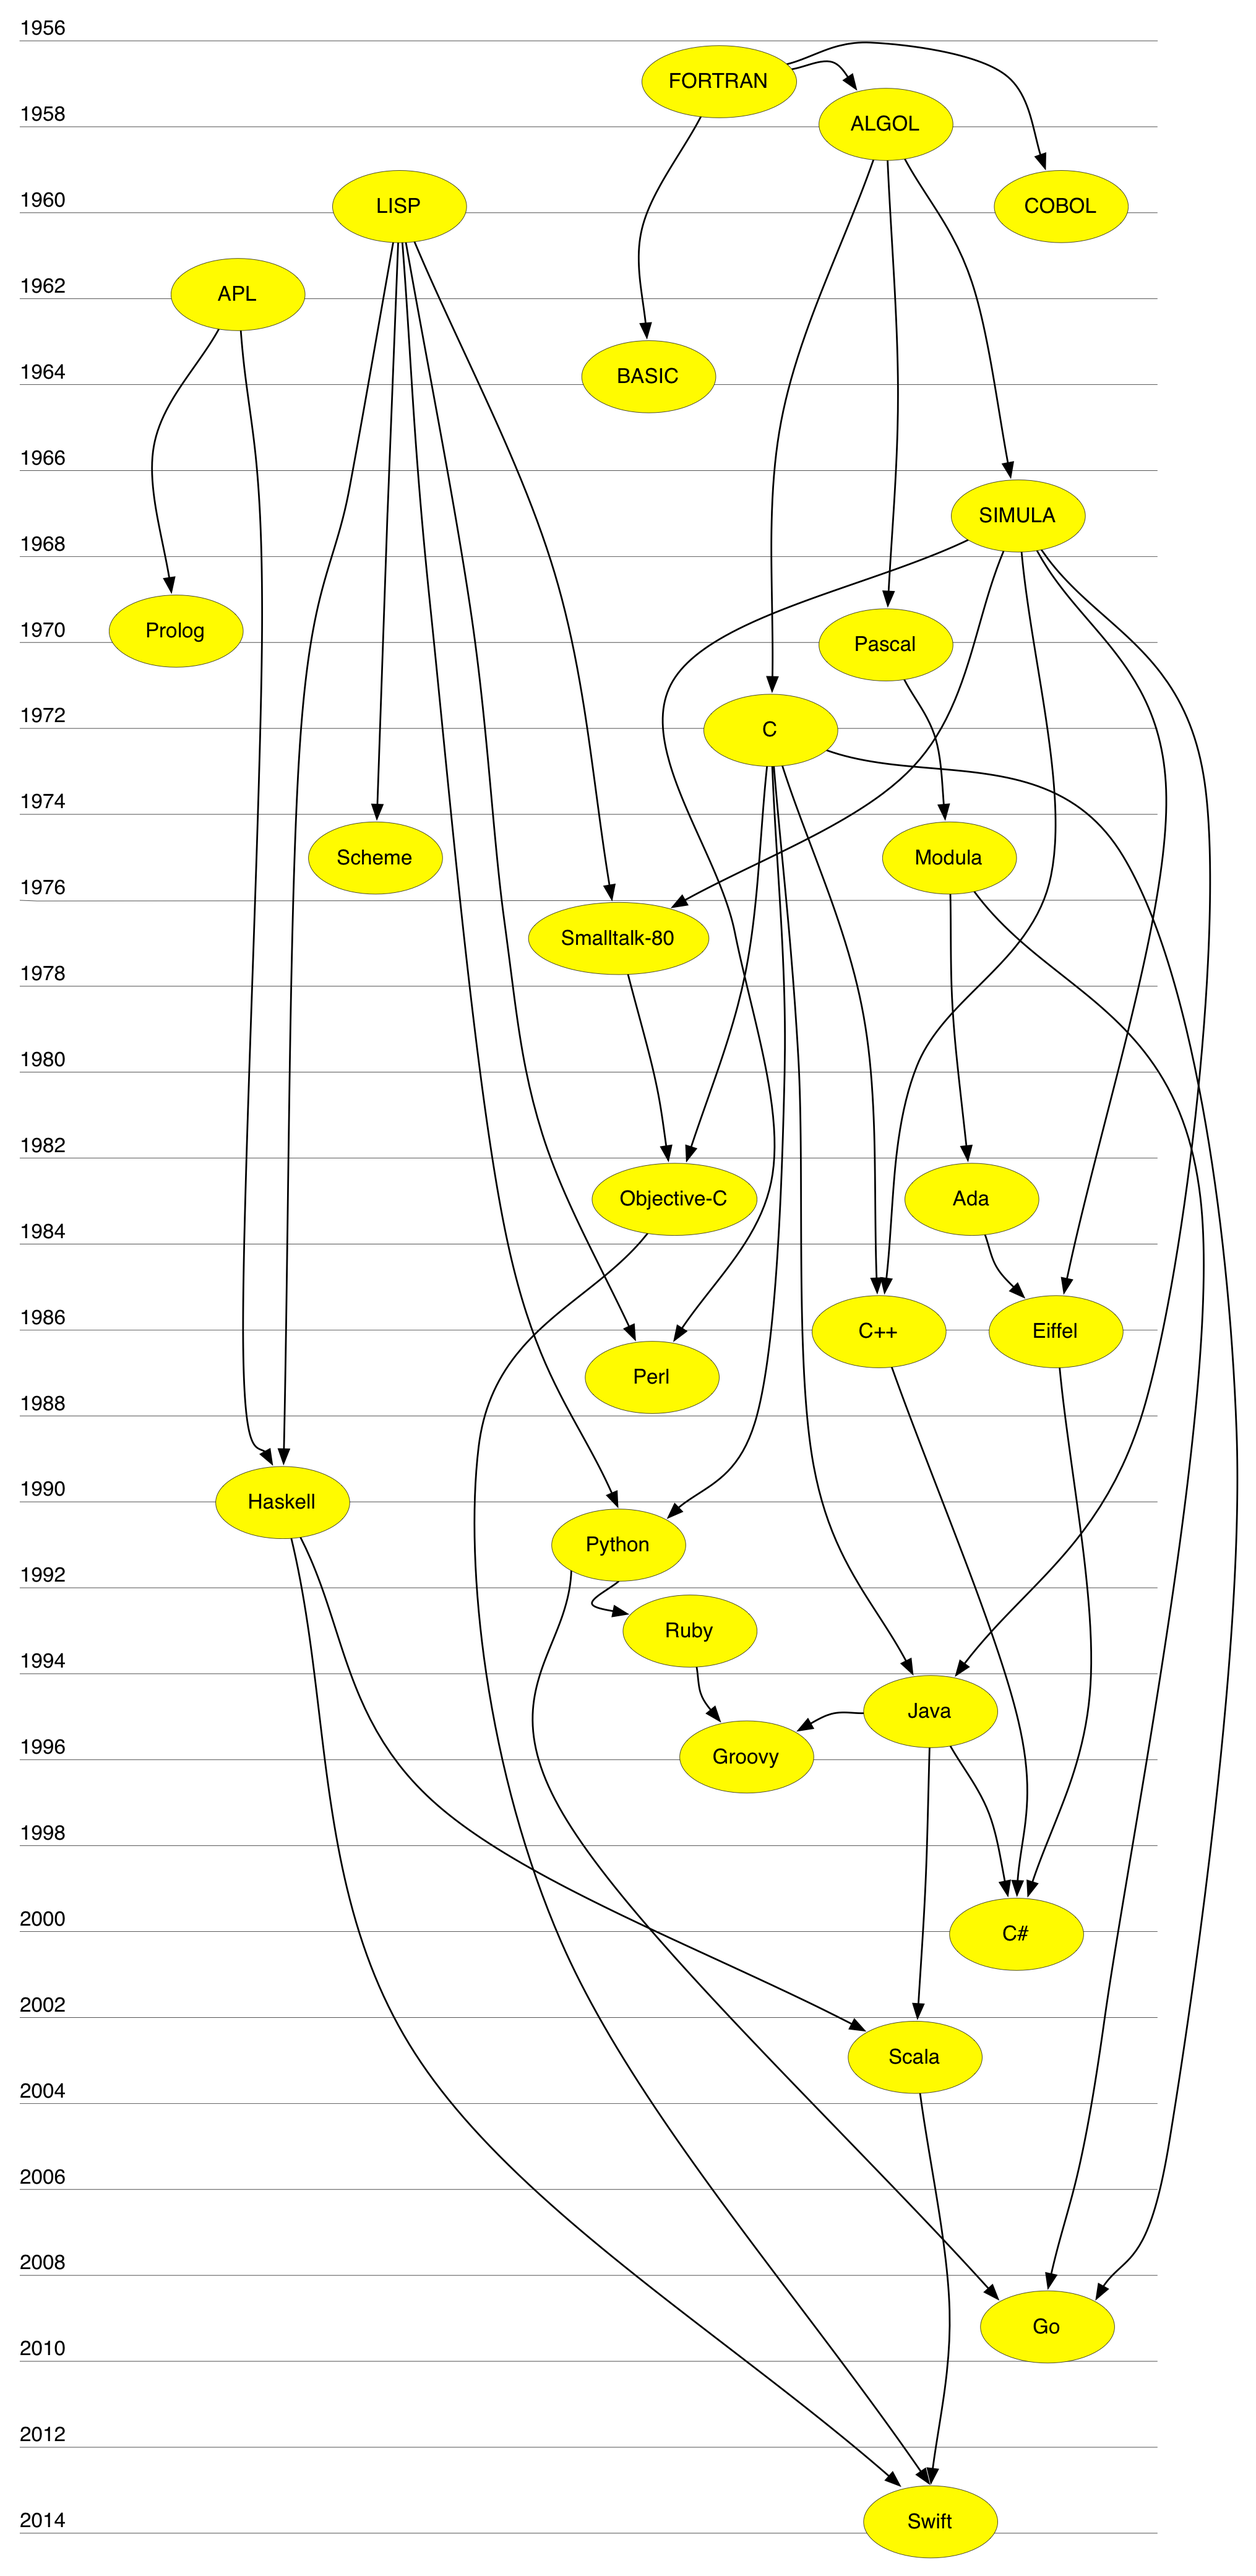
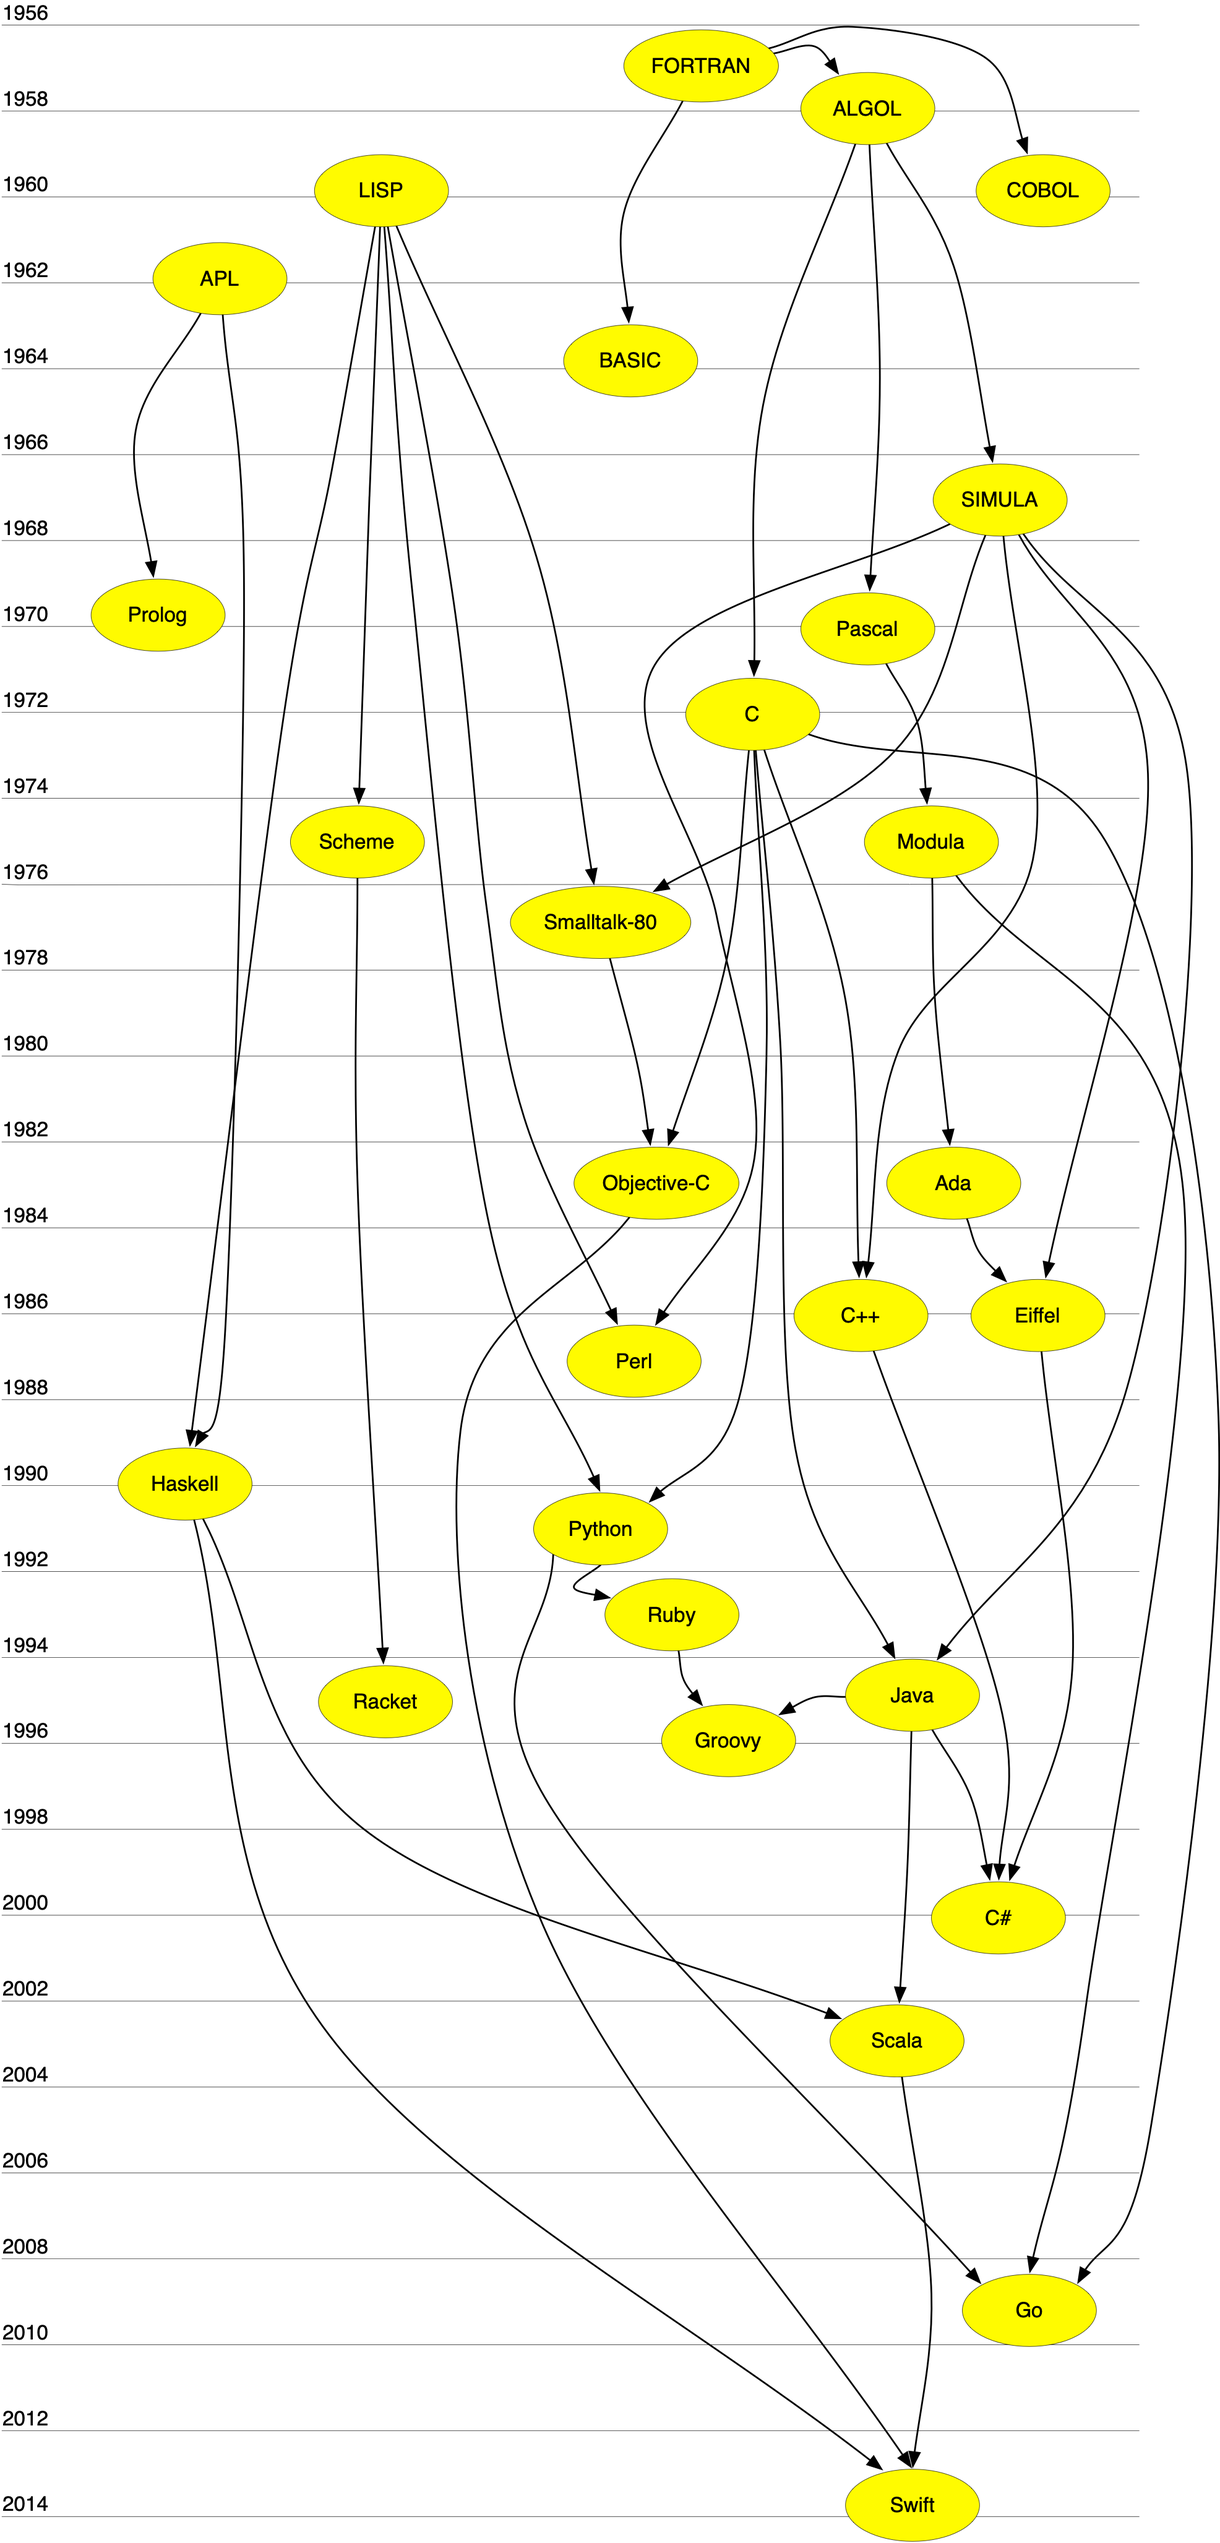
Añadido Racket a la genealogía de LPs

diff --git a/docs/teoria/tema01-historia-lenguajes-programacion/tema01-historia-lenguajes-programacion.md b/docs/teoria/tema01-historia-lenguajes-programacion/tema01-historia-lenguajes-programacion.md
@@ -423,7 +423,7 @@ Algunas notas sobre la genealogía:
 | 1958 ALGOL |  1972 Prolog  | 1983 Objective-C   | 1991 Python   | 2003 Scala  |  
 | 1960 Lisp | 1972 C | 1983 Ada   |  1993 Ruby  | 2003 Groovy  |  
 | 1960 COBOL | 1975 Scheme | 1986 C++  | 1995 Java  | 2009 Go  |  
-| 1962 APL |  1975 Modula   | 1986 Eiffel   |   |  2014 Swift |  
+| 1962 APL |  1975 Modula   | 1986 Eiffel   | 1995 Racket  |  2014 Swift |  
 | 1964 BASIC |      | 1987 Perl   |    |   |  
 | 1967 SIMULA |      |    |    |   |  
 
